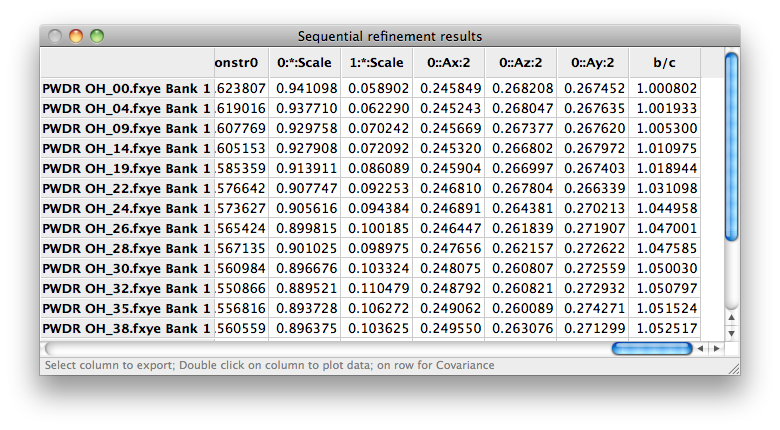
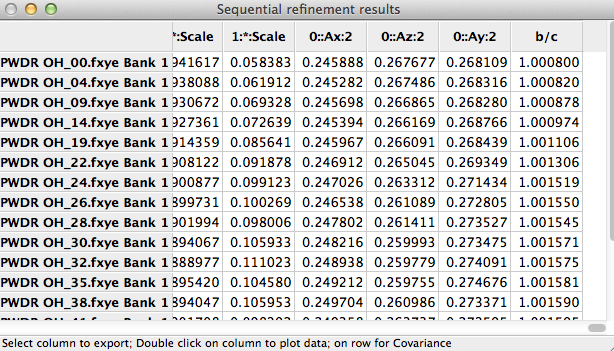
fixes to seq results display & update tutorials

diff --git a/trunk/help/SequentialTutorial.htm b/trunk/help/SequentialTutorial.htm
@@ -2594,8 +2594,7 @@ this plot:</p>
 mso-no-proof:yes'><!--[if gte vml 1]><v:shape id="Picture_x0020_42" o:spid="_x0000_i1037"
  type="#_x0000_t75" style='width:349.5pt;height:300pt;visibility:visible;
  mso-wrap-style:square'>
- <v:imagedata src="SequentialTutorial_files/image074.png" o:title="" croptop="1185f"
-  cropbottom="2863f" cropleft="1936f" cropright="1768f"/>
+ <v:imagedata src="SequentialTutorial_files/image074.png" o:title=""/>
 </v:shape><![endif]--><![if !vml]><img border=0 width=466 height=400
 src="SequentialTutorial_files/image074.png" v:shapes="Picture_x0020_42"><![endif]></span></p>
 

diff --git a/trunk/GSASIIgrid.py b/trunk/GSASIIgrid.py
@@ -3426,7 +3426,8 @@ def UpdateSeqResults(G2frame,data,prevSize=None):
         'strip a histogram number from a var name'
         sv = var.split(':')
         if len(sv) <= 1: return var
-        sv[1] = insChar
+        if sv[1]:
+            sv[1] = insChar
         return ':'.join(sv)
         
     def plotSpCharFix(lbl):
@@ -3957,23 +3958,25 @@ def UpdateSeqResults(G2frame,data,prevSize=None):
 
     # scan for locations where the variables change
     VaryListChanges = [] # histograms where there is a change
-    prevVaryList = []
     combinedVaryList = []
     firstValueList = []
     vallookup = {}
     posdict = {}
     for i,name in enumerate(histNames):
-        if i == 0 or prevVaryList != sorted(data[name]['varyList']):
+        newval = False
+        for var,val in zip(data[name]['varyList'],data[name]['variables']):
+            svar = striphist(var,'*')
+            if svar in combinedVaryList: continue
             # add variables to list as they appear
-            for j,var in enumerate(data[name]['varyList']):
-                if var in combinedVaryList: continue
-                combinedVaryList.append(data[name]['varyList'][j])
-                firstValueList.append(data[name]['variables'][j])
+            combinedVaryList.append(svar)
+            firstValueList.append(val)
+            newval = True
+        if newval:
             vallookup[name] = dict(zip(data[name]['varyList'],data[name]['variables']))
             posdict[name] = {}
-            for lbl in data[name]['varyList']:
-                posdict[name][combinedVaryList.index(lbl)] = lbl            
-            prevVaryList = sorted(data[name]['varyList'])
+            for var in data[name]['varyList']:
+                svar = striphist(var,'*')
+                posdict[name][combinedVaryList.index(svar)] = svar
             VaryListChanges.append(name)
     if len(VaryListChanges) > 1:
         G2frame.dataFrame.SequentialFile.Enable(wxID_ORGSEQSEL,True)
@@ -4062,7 +4065,8 @@ def UpdateSeqResults(G2frame,data,prevSize=None):
     for name in histNames:
         if name in posdict:
             varsellist = [posdict[name].get(i) for i in range(varcols)]
-            sellist = [data[name]['varyList'].index(v) if v is not None else None for v in varsellist]
+            #sellist = [data[name]['varyList'].index(v) if v is not None else None for v in varsellist]
+            sellist = [i if striphist(v,'*') in varsellist else None for i,v in enumerate(data[name]['varyList'])]
         if not varsellist: raise Exception()
         vals.append([data[name]['variables'][s] if s is not None else None for s in sellist])
         esds.append([data[name]['sig'][s] if s is not None else None for s in sellist])

diff --git a/trunk/GSASIIexprGUI.py b/trunk/GSASIIexprGUI.py
@@ -172,6 +172,8 @@ class ExpressionDialog(wx.Dialog):
         for key in parmDict:
             try: # deal with values that are in lists
                 val = parmDict[key][0]
+            except KeyError:
+                continue # there were dicts in parmDict (should be gone now)
             except (TypeError,IndexError):
                 val = parmDict[key]
             if isinstance(val, basestring): continue
